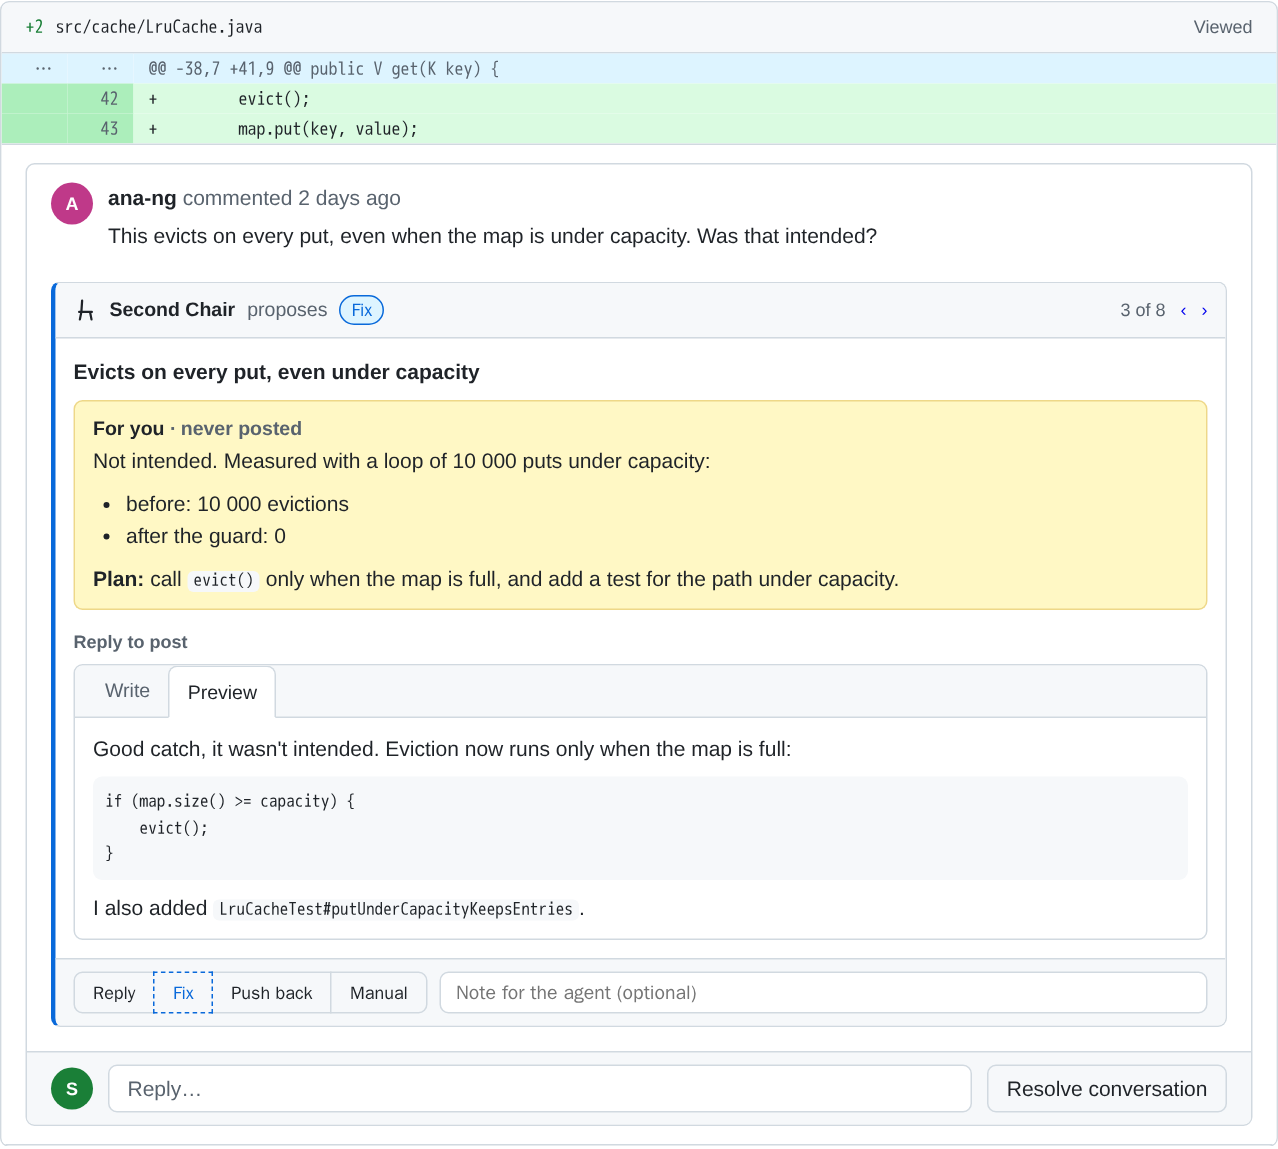
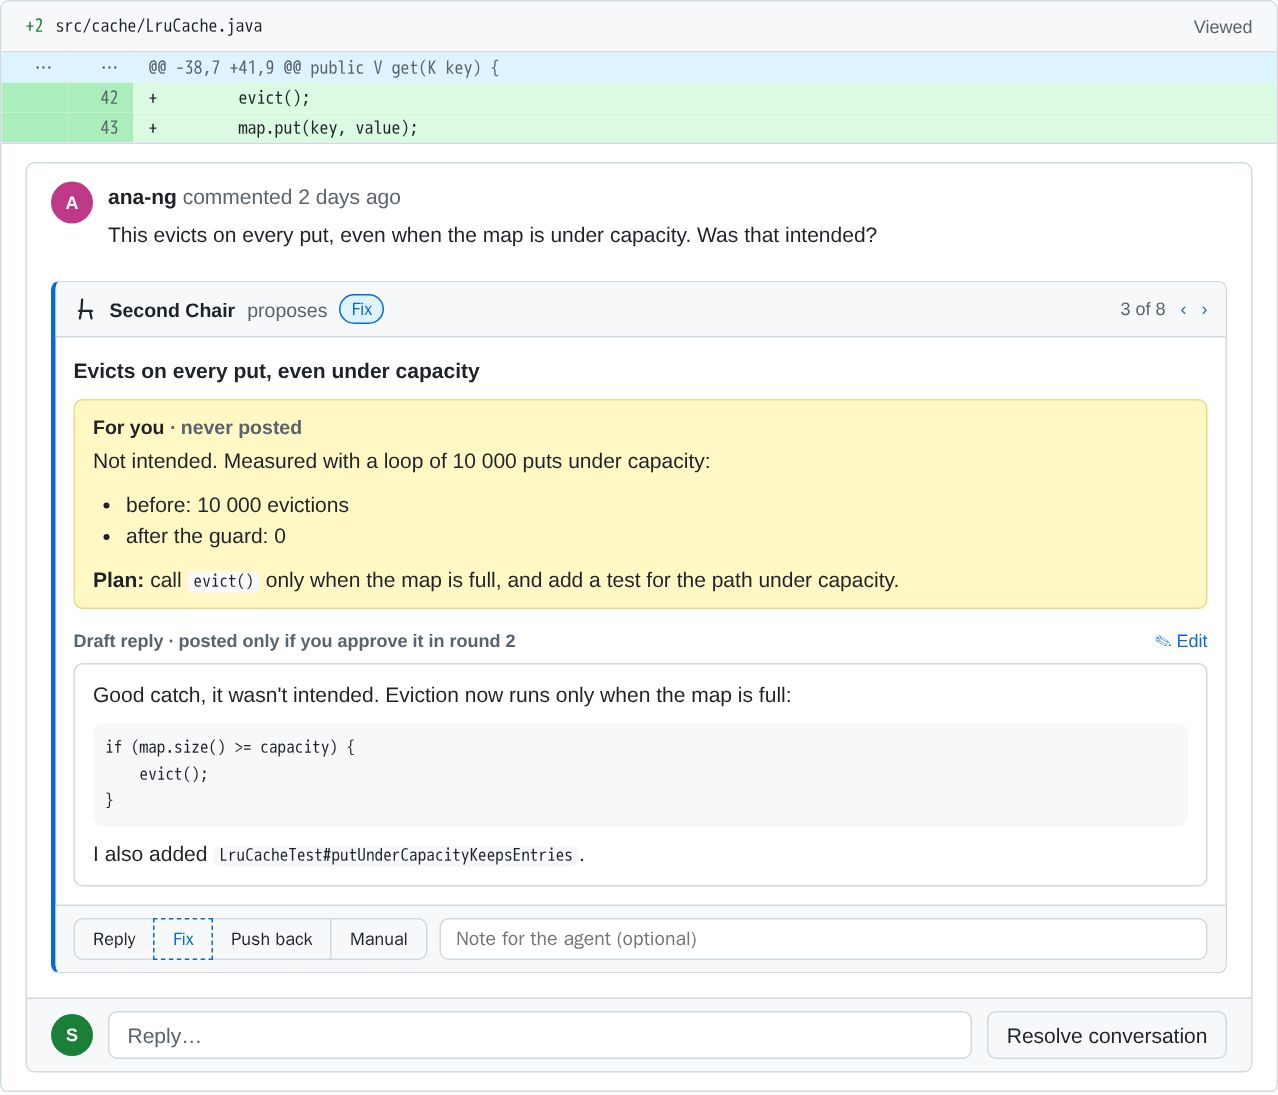
Document the 1.1 flow: the guide, whose turn, Revise in round 2 and the review submit

diff --git a/userscript/second-chair.user.js b/userscript/second-chair.user.js
@@ -643,7 +643,8 @@ html.sc-shift-narrow body{margin-right:min(440px,92vw)!important}html.sc-shift-w
 html.sc-shift-narrow .sc-toggle{right:calc(min(440px,92vw) + 16px)}html.sc-shift-wide .sc-toggle{right:calc(50vw + 16px)}
 .sc-panel-head{padding:12px 14px 10px;border-bottom:1px solid var(--borderColor-default,#d0d7de);position:relative}
 .sc-hrow{display:flex;align-items:center;gap:8px}.sc-grow{flex:1}.sc-small{font-size:12px;margin-top:6px}.sc-fg{color:var(--fgColor-default,#1f2328)}
-.sc-title{font-size:14px}
+.sc-title{font-size:14px;white-space:nowrap}.sc-done-label{white-space:nowrap}
+.sc-panel-head>.sc-hrow:first-child>.sc-muted{min-width:0;white-space:nowrap;overflow:hidden;text-overflow:ellipsis}
 .sc-icon{width:28px;height:28px;border-radius:6px;border:1px solid transparent;background:none;color:var(--fgColor-muted,#59636e);cursor:pointer;font:16px/1 system-ui}
 .sc-icon:hover{background:var(--bgColor-muted,#f6f8fa);border-color:var(--borderColor-default,#d0d7de)}
 .sc-dot{width:8px;height:8px;border-radius:50%;background:var(--fgColor-muted,#8c959f)}.sc-dot.sc-up{background:var(--fgColor-success,#1a7f37)}.sc-dot.sc-down{background:var(--fgColor-danger,#d1242f)}

diff --git a/README.md b/README.md
@@ -21,6 +21,16 @@ Work through GitHub code reviews with your coding agent. Nothing gets posted wit
 - You decide every card: keep it, edit the text, or tell the agent what to change.
 - The agent posts exactly the text you approved, through `second-chair publish`.
 
+## How it works
+
+1. **The agent proposes.** It writes a reply for every review thread on your pull request, or a comment for every finding on someone else's.
+2. **You decide.** Each proposal shows as a card under its thread on GitHub. Keep it, change the text, or tell the agent what to change.
+3. **The agent posts what you approved,** with your exact text.
+
+The side panel always says whose turn it is: yours, or the agent's. The first time Second Chair runs, the panel opens with a short guide. The **?** in the panel opens it again.
+
+<img src="docs/images/guide.png" width="420" alt="The guide in the side panel: the three steps, then the rounds and buttons of review mode">
+
 ## Install
 
 You need:
@@ -44,7 +54,7 @@ Then:
 2. Start a new Claude Code session. Its start hook runs the local server. Run `/second-chair:setup` in that session. It checks Node, `gh` and the server, and walks you through the browser steps.
 3. Open <http://127.0.0.1:7788/second-chair.user.js> in your browser. The script manager offers to install the script. Updates come from the same address.
 
-Open any pull request on github.com. A small pill with the Second Chair chair icon at the bottom right means it works.
+Open any pull request on github.com. A small pill with the Second Chair chair icon at the bottom right means it works. The guide opens the first time.
 
 ### Where the command runs
 
@@ -94,15 +104,19 @@ The agent reads every unresolved thread and writes a proposal for each one. Open
 **Round 1: decide.** Each card shows:
 
 - **For you · never posted**: what the agent checked, and its plan for a fix.
-- **Reply to post**: the draft reply. **Preview** shows it as GitHub will. **Write** lets you edit it, and your text wins.
-- The buttons **Reply**, **Fix**, **Push back** and **Manual**. The agent's proposal has a dashed outline. **Manual** means you handle the thread yourself.
-- **Note for the agent**: an instruction, for example "fix it, but keep the old method".
+- **Draft reply**: the reply as GitHub will show it. It is posted only if you approve it in round 2. **✎ Edit**, or a click on the text, lets you change it, and your text wins. **Undo my edits** brings the agent's text back.
+- The buttons **Reply**, **Fix**, **Push back** and **Manual**. The agent's proposal has a dashed outline. Each button explains itself in its tooltip. **Manual** means you handle the thread yourself.
+- **Note for the agent**: an instruction, for example "fix it, but keep the old method". It is never posted.
 
 The agent marks an item **auto** when it has no doubt, such as a typo. An auto item counts as decided with the agent's proposal and shows as one line. Pick another button to override it.
 
 **Send decisions** at the bottom of the side panel unlocks when every thread has a decision. The agent then makes the fixes you approved and commits them. It does not push yet.
 
-**Round 2: publish.** The cards come back with the final replies and the commits. The buttons are **Publish**, **Hold** and **Manual**. After you send, the agent pushes the commits and runs `second-chair publish`. It posts the replies you marked **Publish**, with the text as you left it. **Hold** and **Manual** post nothing.
+**While the agent works,** the panel says so and shows when the agent picked your decisions up. Round 2 opens by itself. **Edit and send again** lets you change a decision in the meantime. The agent may already be working on the first version, so the panel asks first. The agent sees the change before it can show you round 2.
+
+<img src="docs/images/waiting.png" width="420" alt="The side panel after round 1 was sent: the agent's turn, the time it picked the decisions up, and Waiting for round 2">
+
+**Round 2: publish.** The cards come back with the final replies and the commits. The buttons are **Publish**, **Revise**, **Hold** and **Manual**. **Revise** asks the agent for a new version, with a note. Round 2 then comes back, and nothing is posted. After you send without a **Revise**, the agent pushes the commits and runs `second-chair publish`. It posts the replies you marked **Publish**, with the text as you left it. **Hold** and **Manual** post nothing.
 
 Respond mode posts nothing on GitHub until you send round 2.
 
@@ -118,23 +132,38 @@ The pill at the bottom right opens the side panel. The panel lists every thread,
 
 The findings come from the agent's own review, from another skill such as `/code-review`, or from your notes. The agent adds them as comments to a pending (draft) review on GitHub. GitHub allows one pending review per person and pull request. If you already started one on this pull request, the agent adds to it. Your own comments and your review body get cards too, marked **Your draft comment**.
 
-**Round 1.** Each comment has **Post**, **Revise** and **Drop**. **Revise** needs a note that says what to change. The note field stays red until you write one.
+Who puts what on GitHub, and when:
 
-**Round 2.** The agent rewrites the revised comments. The cards show the final texts with **Post** and **Drop**. After you send, `second-chair publish` edits and deletes the pending comments to match your decisions.
+| When | Who | What happens on GitHub |
+|:--|:--|:--|
+| Before round 1 | the agent, `second-chair draft` | Its findings become comments in your pending review. Only you see them, marked Pending. |
+| Rounds 1 and 2 | you, in Second Chair | Nothing. |
+| After round 2 | the agent, `second-chair publish` | It edits and deletes the pending comments to match your decisions, and sets the review body. |
+| Submit | your choice in round 2 | **Leave as draft**: you submit the review on GitHub. **Comment**, **Approve** or **Request changes**: `publish` submits it with that event. |
 
-The pending review on GitHub now holds exactly what you chose. **Submitting it is your move**, on GitHub. Review mode never submits the review unless you ask the agent to. Then the agent submits it with the event you named: comment, approve or request changes.
+Do not use GitHub's own **Submit review** button during the rounds. It makes the review public with every comment in it, including the ones you have not decided yet.
+
+The draft comments show on the **Files changed** tab, and `push` links there. GitHub may fold them. A folded comment's row in the panel says "folded on GitHub · decide here", and its card opens in the panel.
+
+**Round 1.** Each comment has **Keep**, **Revise** and **Drop**. **Revise** needs a note that says what to change. The note field stays red until you write one. The review body has its own block, **Your review**, at the top of the panel.
+
+**Round 2.** The agent rewrites the revised comments. The cards show the final texts with **Keep**, **Revise** and **Drop**. Under the review body you choose what happens to the review. The agent may suggest an event: it has a dashed outline, and it is never chosen for you. When GitHub would refuse your choice, the send stays locked, and the footer says why. For example, GitHub adds a body to a pending review that has none only with the submit.
+
+After you send, `second-chair publish` edits and deletes the pending comments to match your decisions, then submits the review if you chose an event.
+
+**A second pass.** When you ask the agent to review the same pull request again, it updates the comments of the first pass instead of adding new ones. Their cards say **Second Chair · earlier pass** and fold the **Earlier text**.
 
 ![A review-mode card under a pending comment: Revise is picked, and the empty note field is red](docs/images/review-mode.png)
 
 ## When it is done
 
-A pull request's work in Second Chair is done when one of these happens:
+After you send the final round without a **Revise**, the cards leave the page, and the pill reads **publishing**. The agent pushes, runs `publish`, then `second-chair close`. The work on the pull request is done when one of these happens:
 
-- You send the final round (round 2). This counts even when the server was down and the decisions went to the clipboard.
 - The agent runs `second-chair close`.
 - You pick **Mark as done** in the panel's **⋯** menu.
+- The server was down at the final send, and the decisions went to the clipboard.
 
-The cards then leave the page, and the pill reads **✓ done**. The panel shows a purple **Done** banner and a read-only list of every decision and commit. **Show cards on the page** brings the cards back, read only, until the next reload. A new proposal from the agent starts over.
+The pill then reads **✓ done**. The panel shows a purple **Done** banner with what reached GitHub, with links, and a read-only list of every decision and commit. **Show cards on the page** brings the cards back, read only, until the next reload. A new proposal from the agent starts over.
 
 <img src="docs/images/done.png" width="420" alt="The side panel after the final round: a Done banner and a read-only list of decisions with their commits">
 
@@ -145,10 +174,10 @@ The keys work when the panel is open and the focus is not in a text field.
 | Key | Action |
 |:--|:--|
 | `j` / `k` | Next / previous thread. The arrow keys do the same once a row is selected. |
-| `Enter` | Open or fold the selected card. |
-| `1` to `4` | Pick the first to fourth button of the selected thread. Round 2 and review mode have fewer buttons. The same key again clears the choice. |
+| `Enter` | Open or fold the selected card in the panel. |
+| `1` to `4` | Pick the first to fourth button of the selected thread. Review mode has three. The same key again clears the choice. |
 | `e` | Edit the reply of the selected thread. |
-| `Esc` | Leave a text field. |
+| `Esc` | Finish editing, or leave the note field. |
 
 ## How it stays safe
 
@@ -278,6 +307,8 @@ A container that shares the host network (for example `docker run --network host
 - In Chrome and Edge, turn on **Allow user scripts** or developer mode. See [Browser setup](#browser-setup).
 - Reload the page after you install the script.
 
+**The panel is closed on a pull request.** It stays closed when the server has no proposals for that pull request. Click the pill to open it. It says which command starts Second Chair.
+
 **The panel shows a red dot ("server off").** The page cannot reach the server. Start a Claude Code session, or run `! second-chair start` in one. `! second-chair doctor` shows why the server is down. In your own terminal, the commands work after `npm install -g` (see [Where the command runs](#where-the-command-runs)). Without a server, **Load from clipboard** in the **⋯** menu reads a payload from the clipboard. **Send decisions** then copies the decisions to the clipboard, and you paste them to the agent.
 
 **Port 7788 is in use.** `second-chair doctor` says when another program holds the port. Set a free port in your shell profile, for example `export SECOND_CHAIR_PORT=7790`. Claude Code and its hook use it too, but only when Claude Code starts from that shell. Start the server again, then install the userscript again from `http://127.0.0.1:7790/second-chair.user.js`. The server writes its port into the script it serves, so the old script still calls port 7788.
@@ -286,9 +317,13 @@ A container that shares the host network (for example `docker run --network host
 
 **A thread shows "not loaded on page".** GitHub loads long conversations in parts and folds resolved threads. Select the row in the panel. Second Chair unfolds folded threads, asks GitHub for the thread by its link, and clicks **Load more** until the thread appears. If GitHub still does not show it, the card opens in the panel, and you decide it there. The comments of a pending review show only in the **Files changed** tab.
 
+**`push` refuses because the decisions changed.** You sent a round again while the agent worked on it. The agent must read the change first. Its message names a `get` command. The skills run it, compare, and redo what changed.
+
+**Edit did nothing on the Files changed tab.** That was a bug in 1.0: GitHub's own code took the clicks. Update the userscript from <http://127.0.0.1:7788/second-chair.user.js>.
+
 **`publish` refuses because you have a pending review.** GitHub posts no reply when you have a pending review on the same pull request. Submit or delete that review on GitHub, then ask the agent to run `publish` again. Nothing was posted.
 
-**`publish` refuses to add a review body.** GitHub cannot add a body to a pending review that started without one, except together with the submit. The agent asks you whether to submit now, and with which event, or to drop the body.
+**`publish` refuses to add a review body.** GitHub adds a body to a pending review that started without one only together with the submit. The panel normally locks this choice. When it did not, the agent shows round 2 again, and you choose an event or drop the body.
 
 [docs/PROTOCOL.md](docs/PROTOCOL.md#github-limits) lists the GitHub limits behind these messages.
 

diff --git a/docs/PROTOCOL.md b/docs/PROTOCOL.md
@@ -236,7 +236,7 @@ For the threads on your own pull request.
 5. `second-chair wait --repo O/N --pr N --round 1 --timeout 1500`. Exit code `2` means the time ran out without a send, so run it again. The skills run `wait` in the background.
 6. Carry out the decisions and notes. Commit the fixes, but do not push.
 7. Write round 2 items with the final `reply_en`, the `commits`, and a `verdict` of `publish`, `hold` or `manual`. A thread the user marked `manual` in round 1 keeps `verdict: "manual"` with `auto: true`, so the user is not asked twice.
-8. `second-chair build --repo O/N --pr N --round 2 --head $(git rev-parse HEAD) items2.json > r2.json`, then `push`, then `wait --round 2`.
+8. `second-chair build --repo O/N --pr N --round 2 --head $(git rev-parse HEAD) items2.json > r2.json`, then `push`, then `wait --round 2`. When the decisions hold a `revise`, rewrite those replies and repeat this step. If `push` refuses because the decisions changed, run the `get` command it names, redo what changed, and push again.
 9. `git push`, when a reply to publish refers to a commit.
 10. `second-chair publish --repo O/N --pr N`. For each `publish` decision it posts `reply_en` as a reply to `comment_id`. A general item becomes a pull request comment. `hold` and `manual` post nothing.
 11. `second-chair close --repo O/N --pr N`.
@@ -248,7 +248,7 @@ For a review of someone else's pull request.
 1. `second-chair doctor`, then `second-chair pending <PR>`. It prints your pending review, or `null`.
 2. Write the new comments to `comments.json` and run `second-chair draft <PR> comments.json`. Add `--body-file body.md` only when `pending` printed `null`. `draft` prints one status line on stderr and the pending review with every comment id as JSON on stdout, so `draft ... > pending.json` gives a valid JSON file. With no new comments and no pending review, run `second-chair draft <PR> --body-file body.md` alone. It creates the review with only the body. With no new comments and a pending review, skip `draft`.
 3. Write one item per pending comment (`thread_id: "C<id>"`) and one `BODY` item with `comment_id: null`. A comment or body the user wrote gets `origin: "user"` and keeps the user's text in `original_en`.
-4. `second-chair build --repo O/N --pr N --mode review --round 1 --head SHA items.json > r1.json`, then `push` and `wait --round 1`.
+4. `second-chair build --repo O/N --pr N --mode review --round 1 --head SHA items.json > r1.json`, then `push` and `wait --round 1`. If a later `push` refuses because the decisions changed, run the `get` command it names, redo what changed, and push again.
 5. Rewrite each `revise` item as its note says.
 6. Write round 2 items with the final texts and `post` or `drop`. An item the user dropped in round 1 keeps `verdict: "drop"` with `auto: true`, because `publish` deletes only a comment that has a round 2 decision.
 7. `build --mode review --round 2`, `push`, then `wait --round 2`.

diff --git a/docs/TESTING.md b/docs/TESTING.md
@@ -75,14 +75,25 @@ Use a pull request by another account.
 
 - [ ] In the GitHub UI, start a review and write one comment by hand. Do not submit it.
 - [ ] `/second-chair:review <PR>` with two findings. The pending review now holds three comments, and the hand-written one has a **Your draft comment** card.
-- [ ] Round 1: **Revise** one comment with a note, **Drop** one, **Post** the hand-written one. Send.
-- [ ] Round 2: the revised text follows the note. Send with **Post** on the two that are left.
+- [ ] Round 1: **Revise** one comment with a note, **Drop** one, **Keep** the hand-written one. Send.
+- [ ] Round 2: the revised text follows the note. Send with **Keep** on the two that are left and **Leave as draft**.
 - [ ] After `publish`, the pending review on GitHub holds the two comments with the approved texts, and the dropped one is gone. The review is still pending.
 - [ ] With no pending review on the pull request, `second-chair draft <PR> --body-file body.md` with no comments file creates a pending review. `second-chair pending <PR>` shows it with that body and no comments.
 
+### 1.1: guide, turns, resend, review submit
+
+- [ ] In a browser profile that never ran Second Chair, open a pull request. The panel opens with the guide. **Got it** closes it, and a reload does not show it again. **?** opens it.
+- [ ] A pull request with no proposals keeps the panel closed. The pill shows a dash. A click opens a panel that names the two commands.
+- [ ] Respond: after the round 1 send, the panel says it is the agent's turn and shows when the agent picked the decisions up. Round 2 opens by itself, without a reload.
+- [ ] Respond: after the pick-up, **Edit and send again**, change one decision, send. The agent's `push` of round 2 is refused until it ran `get`, and the agent tells you what changed.
+- [ ] Respond: round 2 with one **Revise**. Nothing is posted, and round 2 comes back with the new text.
+- [ ] Review, on the Files changed tab: **✎ Edit**, a click on the text, **Preview**, **Undo my edits**, **expand** and the arrows work on an inline card.
+- [ ] Review: round 2 with **Comment** chosen in **Your review**. After `publish`, the review on GitHub is submitted as a comment, and the panel says "Submitted as Comment".
+- [ ] Review: run `/second-chair:review` on the same pull request a second time. No line has two comments. The cards of the first pass say **earlier pass**.
+
 ### Cards after the end
 
-- [ ] After the final send, no card stays on the page and the pill reads **✓ done**.
+- [ ] After the final send, no card stays on the page and the pill reads **publishing**. After the agent's `close`, it reads **✓ done**, and the panel lists the posted replies with links.
 - [ ] After a reload, the cards stay hidden.
 - [ ] Stop the server (`second-chair stop`) and reload. The cards stay hidden.
 - [ ] **Show cards on the page** brings them back, read only.

diff --git a/CHANGELOG.md b/CHANGELOG.md
@@ -1,5 +1,34 @@
 # Changelog
 
+## Unreleased
+
+Added:
+
+- A guide opens in the side panel the first time Second Chair runs. It says who does what, what the two rounds are, and what each button does, for both modes. The **?** in the panel opens it again.
+- A status line under the panel header says whose turn it is and what happens next.
+- After you send a round, the panel waits for the agent and shows when the agent picked your decisions up. The next round opens by itself, without a reload.
+- **Edit and send again** while the agent works on a round. `second-chair push` refuses the next round until the agent read the change, so the agent always sees it.
+- **Revise** in round 2, in both modes. The agent writes a new version, and round 2 comes back. Nothing is posted until you approve it.
+- Review mode: a **Your review** block with the review body and, in round 2, the submit choice: **Leave as draft**, **Comment**, **Approve** or **Request changes**. `publish` submits the review with your choice. The send stays locked, with the reason, when GitHub would refuse the choice.
+- A second review pass updates the comments of the first pass instead of adding new ones. `second-chair pending` says who wrote each comment, and `second-chair draft` refuses a second comment on lines that already have one (`--allow-same-line` lets a separate point through).
+- After the final round, the panel shows what reached GitHub, with links.
+
+Changed:
+
+- The work on a pull request is done when the agent closes it after `publish`, not at the final send. Until then the panel says that the agent publishes.
+- Review mode labels **Post** as **Keep**, because nothing becomes public before the review is submitted.
+- Every button explains itself in its tooltip.
+- **Write** is now **✎ Edit**, and a click on the shown text starts editing too. **Undo my edits** brings the agent's text back. Each caption says when the text goes out.
+- A pull request without proposals keeps the panel closed. When you open it, it says which command starts Second Chair.
+- `second-chair push` links the Files changed tab for a review.
+- The panel header names the mode as the commands do: Respond or Review.
+
+Fixed:
+
+- **Write**, **expand**, **jump** and the arrows did nothing on the Files changed tab. GitHub's own code took the clicks. Every control is now a button, and Second Chair handles its clicks first.
+- Review rows said "general" next to every comment.
+- After a send, the text could still be edited, and the edit went nowhere.
+
 ## 1.0.1
 
 - In a thread with replies, the card now shows after the last comment. It used to show after the first comment, so it looked like an answer to that comment.
